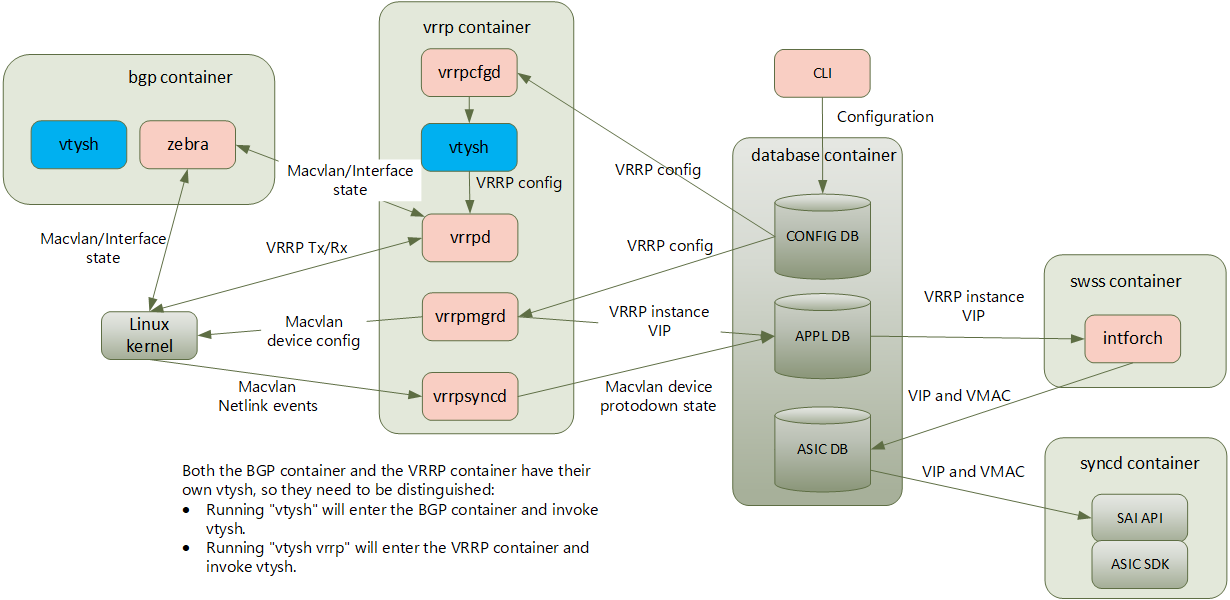
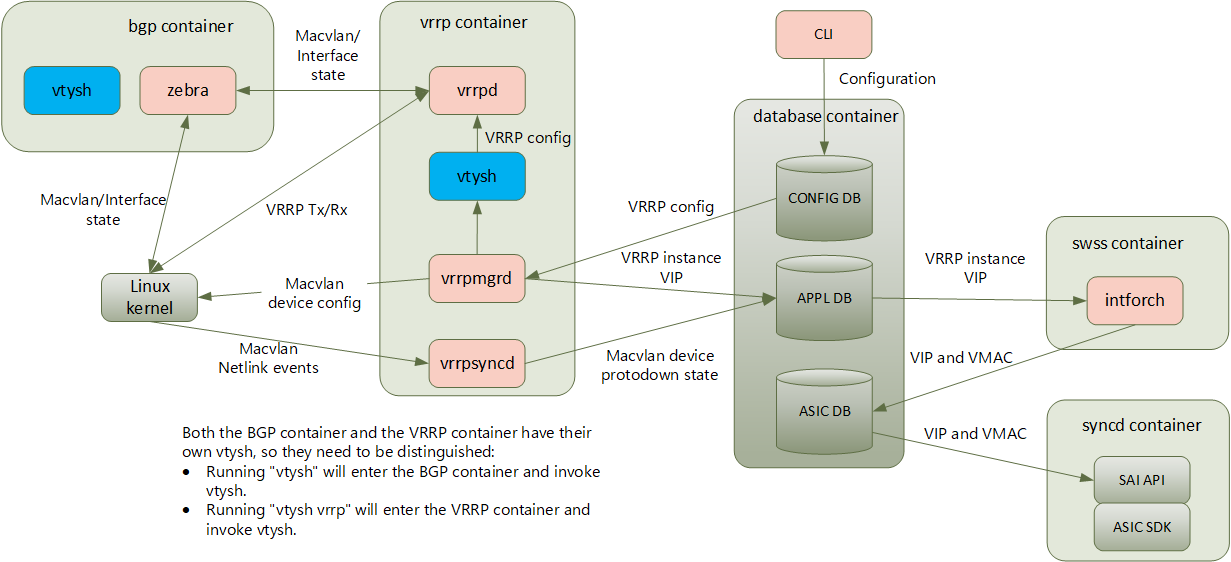
Modifying the HLD based on the review comments.

diff --git a/doc/vrrp/VRRP_Adaptation_HLD.md b/doc/vrrp/VRRP_Adaptation_HLD.md
@@ -23,6 +23,7 @@
       - [Operating environment](#operating-environment)
       - [Scalability Requirements](#scalability-requirements)
       - [Container](#container)
+        - [VRRP container](#vrrp-container)
         - [BGP container](#bgp-container)
         - [SWSS container](#swss-container)
       - [CoPP Configurations](#copp-configurations)
@@ -207,28 +208,28 @@ Since support for placing macvlan devices into protodown was not added to Linux 
 
 Add a new VRRP container to host VRRP protocol operations. We control whether the VRRP feature is enabled through the FEATURE table in Config DB, which is disabled by default.
 
-vrrpcfgd: 
-  - Subscribes to CONFIG_DB tables, parsing configurations and passes to vrrpd by using FRR CLI commands. 
-
 vrrpd: 
   - Responsible for all VRRP protocol related calculations. VRRP packets are sent and received in vrrpd and states are updated accordingly.
   - Match VRRP instance tracking interface and recalculate priority.
-
-zebra:
-  - Provide an API for vrrpd to update kernel Macvlan device state.
-  - Listen for kernel interface state change events and notify vrrpd.
 
 vrrpmgrd: 
   - Listens to VRRP create, delete and parameter change in CONFIG_DB. Complete the following tasks:
     - Add/del Linux Macvlan device to kernel. The Macvlan device name starting with 'Vrrp4-' or 'Vrrp6-'.
     - Config virtual MAC to Macvlan device;
     - Add/del VIP to Macvlan device;
-    - Update VRRP instance configuration to the APPL DB.
+    - Update VRRP instance configuration to the APPL DB;
+    - Update VRRP instance configuration to vrrpd by using vtysh commands.
 
 vrrpsyncd: 
   - Complete the following tasks:
     - Listen for kernel Macvlan device state change events, The state of the Macvlan device here determines the Master/Backup state of the VRRP instance, where up represents Master and down represents Backup.
     - Update the kernel Macvlan device state to the APPL DB.
+
+##### BGP container
+
+zebra:
+  - Provide an API for vrrpd to update kernel Macvlan device state.
+  - Listen for kernel interface state change events and notify vrrpd.
 
 ##### SWSS container
 
@@ -265,7 +266,7 @@ VRRP
 
 Producer: config manager
 
-Consumer: vrrpmgrd and vrrpcfgd
+Consumer: vrrpmgrd
 
 Description: New table that stores VRRP configuration for per interface + VRID.
 ```
@@ -282,7 +283,7 @@ admin_status          = "up" | "down"                 ; String denoting the stat
 version               = vrrp_version                  ; VRRP version. Value is 2 or 3. Default is 3
 preempt               = "enabled"/"disabled"          ; VRRP pre-emption is enabled? Default is enabled
 track_interface       = interface_name                ; This is a list of configured tracking interfaces
-priority_decrement    = 2DIGIT                        ; Specifies how much to decrement the priority of the VRRP instance if the tracking interface goes down.
+priority_decrement    = 2DIGIT                        ; Specifies how much to decrement the priority of the VRRP instance if the tracking interface goes down, Default is 20
 ```
 Example:-
 ```
@@ -380,21 +381,18 @@ admin@sonic:~$ redis-cli -n 1 hgetall "ASIC_STATE:SAI_OBJECT_TYPE_ROUTER_INTERFA
 
 ![VRRP ADD/DEL VRRP instance Flows](images/VRRP_Config_Instance_Flow.png)
 
-vrrpcfgd:
+vrrpmgrd:
   - Listens to VRRP create, delete and parameter change in CONFIG DB
-  - Update changes by using vtysh commands
+  - Upon change
+    - Add/del VRRP instance corresponding Macvlan device to kernel with IPs and state.
+    - Updates VRRP instance configuration to the APPL DB, such as Macvlan device name and Vip.
+    - Update changes to vrrpd by using vtysh commands
 
 vrrpd:
   - Listens to VRRP create, delete and parameter change in vrrpcfgd
   - Run VRRP state machine
     - For VRRP instances state transition to Master, set the Macvlan device into protodown off
     - For VRRP instances state transition to non-Master, set the Macvlan interface into protodown on
-
-vrrpmgrd:
-  - Listens to VRRP create, delete and parameter change in CONFIG DB
-  - Upon change
-    - Add/del VRRP instance corresponding Macvlan device to kernel with IPs and state.
-    - Updates VRRP instance configuration to the APPL DB, such as Macvlan device name and Vip.
 
 vrrpsyncd:
   - Listens to Macvlan interface programming in kernel. 
